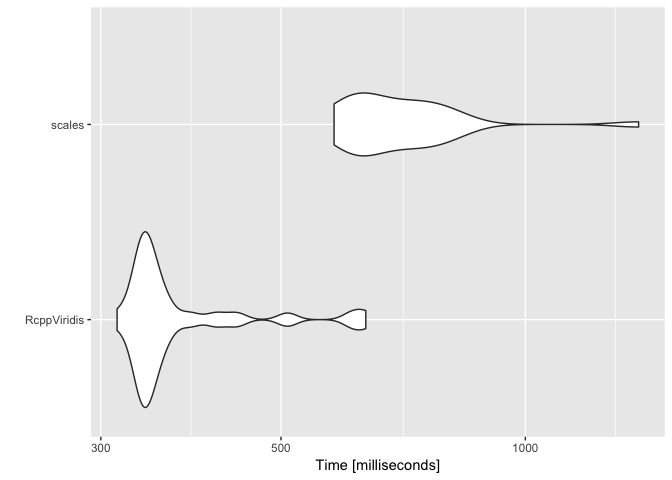
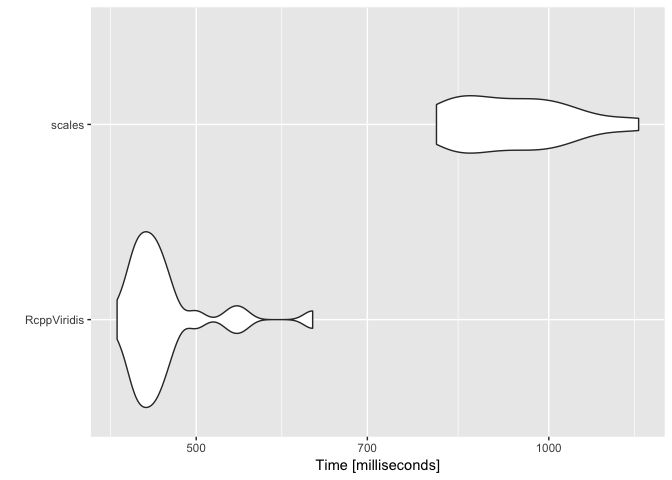
docs and readme

diff --git a/inst/include/RcppViridis/colours/colours_hex.hpp b/inst/include/RcppViridis/colours/colours_hex.hpp
@@ -26,6 +26,10 @@ namespace colours_hex {
     int n = x.size();
     double colours = red.size();
 
+    //resolve_na_colour( na_colour );
+    // TODO(user-supplied default na_alpha)
+    na_colour = na_colour.length() == 9 ? na_colour : na_colour + "FF";
+
     rcppviridis::scale::rescale(x);
     Rcpp::StringVector hex_strings(n);
     double step = 256 / colours;

diff --git a/README.md b/README.md
@@ -167,8 +167,8 @@ barplot(height = df$a, col = df$col, border = NA, space = 0)
 Or use a vector of values the same lenght as `x`
 
 ``` r
-df <- data.frame(a = 10, x = 1:256)
-df$col <- colour_values(df$x, alpha = c((1:256)**0.5))
+df <- data.frame(a = 10, x = 1:300, y = rep(c(1:50, 50:1), 3) )
+df$col <- colour_values(df$x, alpha = df$y)
 barplot(height = df$a, col = df$col, border = NA, space = 0)
 ```
 
@@ -210,9 +210,9 @@ m <- microbenchmark(
 )
 m
 # Unit: milliseconds
-#         expr      min       lq     mean   median       uq       max neval
-#  RcppViridis 314.1289 337.5019 379.4176 344.6244 364.6765  635.9802    25
-#       scales 581.2688 628.6510 712.7833 690.3029 766.2993 1378.8388    25
+#         expr      min       lq     mean   median        uq       max neval
+#  RcppViridis 427.9845 446.6185 469.9780 459.1266  468.8915  628.6237    25
+#       scales 801.8643 846.7193 938.5121 919.1626 1007.7639 1193.1294    25
 
 autoplot(m)
 ```
@@ -238,9 +238,9 @@ m <- microbenchmark(
 )
 m
 # Unit: milliseconds
-#         expr      min       lq     mean   median       uq      max neval
-#  RcppViridis 363.4626 367.9781 399.5658 377.0306 394.8051 615.3840    25
-#       scales 602.6488 625.2069 706.2571 647.2395 742.0782 969.1563    25
+#         expr      min      lq     mean   median        uq       max neval
+#  RcppViridis 443.8625 462.939 510.6144 485.6111  533.4149  714.7436    25
+#       scales 777.6324 850.007 934.3971 886.6116 1021.3705 1120.0902    25
 
 autoplot(m)
 ```
